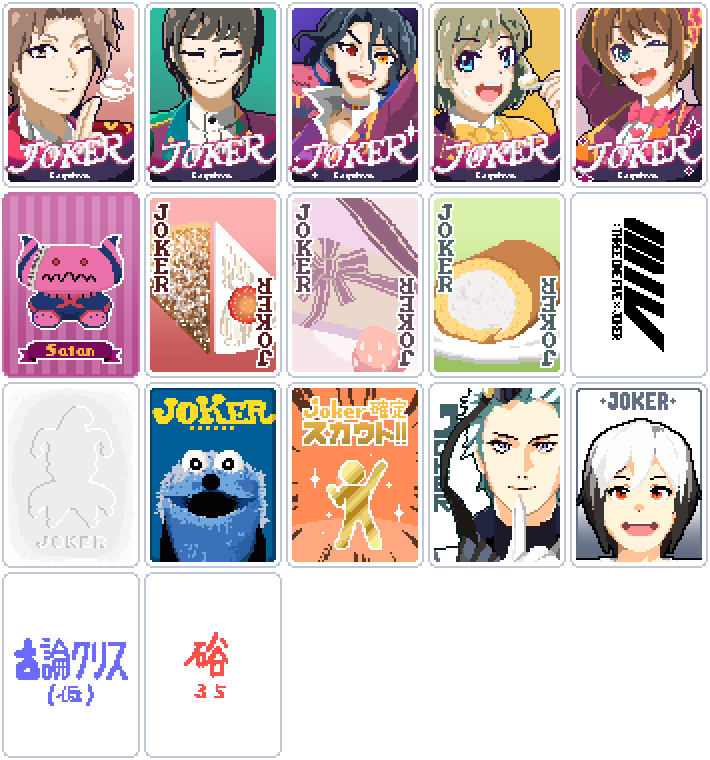
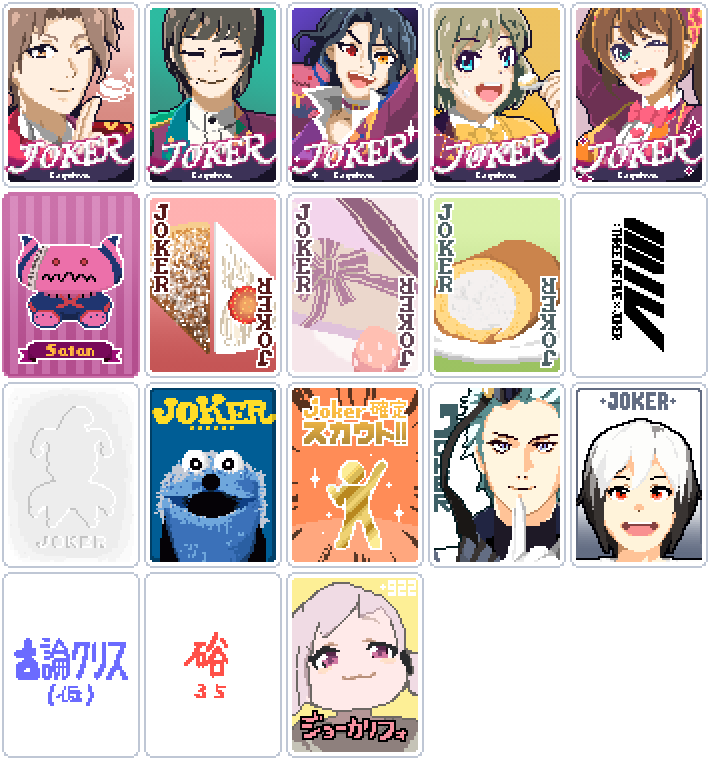
Add California Gurls with per-hand chips and round-end departure

Changed region(s): [[0.4028, 0.7566, 0.5887, 0.9987]]

diff --git a/tests/release.py b/tests/release.py
@@ -26,7 +26,7 @@ with tempfile.TemporaryDirectory(prefix='cafetro-release-') as directory:
     with ZipFile(archive) as package:
         assert package.testzip() is None
         paths = package.namelist()
-        assert len(paths) == len(set(paths)) == 48 + len(optional)
+        assert len(paths) == len(set(paths)) == 49 + len(optional)
         assert all(path.startswith('Cafetro/') and '..' not in Path(path).parts for path in paths)
         assert not any(part in {'art', 'docs', 'tests', 'tools', 'previews', '__pycache__'}
                        for path in paths for part in Path(path).parts)
@@ -68,7 +68,7 @@ with tempfile.TemporaryDirectory(prefix='cafetro-release-') as directory:
         assert(registered.challenges.finale:unlocked() == false)
     ''')
     definitions = lua.globals().registered
-    assert len(list(definitions.jokers.items())) == 17
+    assert len(list(definitions.jokers.items())) == 18
     assert len(list(definitions.drawsteps.items())) == 1
     assert definitions.seals.chun_chun.atlas == "chun_chun"
     assert len(list(definitions.challenges.items())) == 8

diff --git a/tests/run.py b/tests/run.py
@@ -36,7 +36,7 @@ assert metadata['name'] == 'Cafetro!'
 assert metadata['id'] == 'CafeParade' and metadata['prefix'] == 'cp'
 assert (ROOT / metadata['main_file']).is_file()
 palette = json.loads((PROJECT / 'art/COLOR_PALETTE.json').read_text(encoding='utf-8'))
-assert len(palette['jokers']) == 17
+assert len(palette['jokers']) == 18
 columns = palette['atlas_columns']
 assert columns == 5
 for index, spec in enumerate(palette['jokers']):

diff --git a/docs/TEST_PLAN.md b/docs/TEST_PLAN.md
@@ -5,12 +5,12 @@
 ## 自動検証
 
 - 全ランタイム・fixture・テストのLua 5.1構文。
-- 726件: ジョーカー17種の登録・能力・コピー・再発動・成長演出・状態復元・サタンの枠・日英説明。開発用のお試しライブが通常登録されないことも確認。
+- 741件: ジョーカー18種の登録・能力・コピー・再発動・成長演出・状態復元・サタンの枠・日英説明。開発用のお試しライブが通常登録されないことも確認。
 - 咲の左端が得点対象外・得点対象が空／未提供なら変化・演出・回数消費なし。同じブラインドの次の有効なハンドで発動でき、得点対象の配列順が変わってもプレイした左端を選ぶことを確認。
 - 神谷の同一ブラインド内4ハンド連続報酬、重複評価・コピー・旧セーブ移行、失敗したタロット抽選・満杯・可変確率を確認。サタンの0〜5人時のX2.5〜X3.75、人数減少後と旧成長値の保持、赤枠と末尾の現在値を日英で確認。
 - エンボスの全標準強化・シール／エディションのみの除外・再発動・コピー、スンスンの6限定・得点対象との一致・ストーン除外・コピー・非得点領域の除外、日英の最終行の非公式表記を確認。
 - 168件: ケーキセットのペアを含む上位役・カスタム役への対応、ペアのない役の除外、標準4ボスのスート制限だけの解除と復帰、他の無効化原因との共存。
-- 272件: フード2種の1/5・1/10抽選、ラウンド終了時の本体限定・個体別・重複評価防止、勝利／敗北・コピー・再発動・デバフ・旧セーブ・破壊防止、日英の確率表示と隠し効果の非表示。両種・複数所持で巻緒の重みが1.25倍に留まり、売却／消滅／デバフで解除。旧式の抽選を独立RNG格子で厳密比較し、get_weight・禁止・他プール・金人間との併用も確認。
+- 303件: California Gurlsの提出時と終了時の独立した1/4抽選、結果を使った+922、コピーと日英の「ｶﾘﾌｫ」を確認。フード2種の1/5・1/10抽選、ラウンド終了時の本体限定・個体別・重複評価防止、勝利／敗北・コピー・再発動・デバフ・旧セーブ・破壊防止、日英の確率表示と隠し効果の非表示。両種・複数所持で巻緒の重みが1.25倍に留まり、売却／消滅／デバフで解除。旧式の抽選を独立RNG格子で厳密比較し、get_weight・禁止・他プール・金人間との併用も確認。
 - 422件: 金人間の標準道化師パック4種限定・MODパック／ショップ除外、所持・売却・デバフ・複数所持、5:1の重み再正規化、重み補正・追加レアリティ・object_weights、禁止・重複・Showman・プールの使い回し、候補枯渇時の非コモン補充と失敗時の禁止状態復元を確認。
 - 172件: 雨彦の自身・ジョーカー・消耗品・MODトランプを含む集計、領域の重複除外、売却／消費／除去・デバフ・未所持除外、固定ネガティブ・コピー・加工変更・枠の二重加算防止、日英の現在倍率。固定前景の描画順・キャッシュ・Glued・無加工・浮遊なし・二重描画防止をモックで確認。確認用お題の8枚デッキ、非ブロックの初期加工、初期5枚・X2.25、消費→破壊→売却でX1.25へ戻る遷移、初期化の重複／別ランへの漏れ防止も確認。
 - 140件: Chocolate Spacialの生成条件・容量・予約枠・複数所持とコピー。
@@ -20,15 +20,15 @@
 - スキン4スート・2配色、画像全52セル。統合元のトランプ4枚をSHA-256で照合。
 - Chun-Chunの得点後付与、未プレイ判定、Blueprint経由の上限共有、セーブ状態の再構築、コピー時の除去、売却後の得点、ラウンド終了の除去、雨彦の重複除外、JokerDisplayの表示値とチャレンジの初期構成。
 - nearest/lanczos、1x/2xのアトラス全画素・透明度・サタン前景・雨彦前景・MODアイコン。配布する追跡済み画像とnearest再生成結果も一致。
-- 配布ZIPの48ファイル、CRC、原稿・テスト・資料・仮プレビューの除外、SHA-256、再現可能なZIP内容、必要ファイル欠落時の失敗。
-- **展開した配布ZIPだけ**を読み、ジョーカー17種・お題8種・シール1種・固定前景のDrawStep・スキン4種と全アトラスを登録。内部IDを保持し、追加の開発ファイルに依存しないことを確認。
+- 配布ZIPの49ファイル、CRC、原稿・テスト・資料・仮プレビューの除外、SHA-256、再現可能なZIP内容、必要ファイル欠落時の失敗。
+- **展開した配布ZIPだけ**を読み、ジョーカー18種・お題8種・シール1種・固定前景のDrawStep・スキン4種と全アトラスを登録。内部IDを保持し、追加の開発ファイルに依存しないことを確認。
 - 作者のREADME.txtが必ず同梱され、旧SAKI_CARDS_NOTICE.txtが入らないことを確認。追加のMarkdown READMEも同梱できる。
 
-既存のテストは2,301件のアサーションを実行し、Chun-Chunも専用テストで検証します。モックはゲームの描画・セーブ形式・Steamoddedディスパッチ全体を再現しません。ZIPの読み込み確認も、実ゲーム起動の代用ではありません。
+既存のテストは2,347件のアサーションを実行し、Chun-Chunも専用テストで検証します。モックはゲームの描画・セーブ形式・Steamoddedディスパッチ全体を再現しません。ZIPの読み込み確認も、実ゲーム起動の代用ではありません。
 
 ## ユーザー側での実ゲーム確認
 
-1. 旧版と二重導入せず、`Cafetro` フォルダで起動。表示名Cafetro!、新アイコン、ジョーカー17枚、日英の説明・作者表記を確認。
+1. 旧版と二重導入せず、`Cafetro` フォルダで起動。表示名Cafetro!、新アイコン、ジョーカー18枚、日英の説明・作者表記を確認。
 2. 通常ランと既存セーブを確認。内部ID・prefix・カードキーは維持しているが、実際の保存形式との互換はこの環境では未確認。
 3. 咲の左端・未強化・得点対象限定Makeup!→ワイルド→得点、東雲の得点後成長、ケーキセットのスート制限解除、生成・再発動・サタンの枠を確認。
    ケーキセットをツーペア・フルハウス等で使用し、他原因の無効化は残ることを確認。ロールケーキの各+50、ラウンド終了時の「食べられた！」、確率表示の変更、対応MODでのFood判定も確認。

diff --git a/docs/CARD_SPEC.md b/docs/CARD_SPEC.md
@@ -3,7 +3,7 @@
 現行の数値は `Cafetro/config.lua` に集約する。v1.1.0では依頼に基づき神谷とサタンを上方調整。比較資料と判断理由は `BALANCE_NOTES.md` を参照。
 
 ## 共通定義
-- 追加するカードは `kamiya` / `shinonome` / `aslan` / `makio` / `saki` / `satan` / `cake_set` / `chocolate_spacial` / `plain_cakeroll` / `three_one_five` / `embossing` / `sunsun` / `goldpeople` / `amehiko` / `sora` / `koron` / `hazama` の17種。表示名 `Cafetro!`、内部MOD ID `CafeParade`。内部IDの完全形はSteamoddedのprefix規則に従って衝突しないものにする。
+- 追加するカードは `kamiya` / `shinonome` / `aslan` / `makio` / `saki` / `satan` / `cake_set` / `chocolate_spacial` / `plain_cakeroll` / `three_one_five` / `embossing` / `sunsun` / `goldpeople` / `amehiko` / `sora` / `koron` / `hazama` / `california_gurls` の18種。表示名 `Cafetro!`、内部MOD ID `CafeParade`。内部IDの完全形はSteamoddedのprefix規則に従って衝突しないものにする。
 - 「Café Paradeメンバー」は **神谷・東雲・アスラン・巻緒・咲の5種のみ**。サタンは6枚目だがメンバー数には数えない。異なるメンバーを数えるときは種類ごとに最大1、同名2枚を所持しても1人。
 - 「所持している」はジョーカー領域に存在する有効（非debuff）のカードを意味する。Blueprint / Brainstormによる能力コピーは所持人数を増やさない。デッキにカードがあってもジョーカー領域になければ対象外。
 - 「得点したカード」はスコア計算に参加したカード。捨て札、得点に不参加の手札、手札に残るスチールカード等は対象外。

diff --git a/docs/RELEASING.md b/docs/RELEASING.md
@@ -15,7 +15,7 @@
 3. 画像を更新したときだけ `python tools/build_atlas.py --filter nearest` を実行する。
 4. `python tests/run.py` で能力・画像・配布ZIPを検証する。
 5. `python tools/build_release.py` を実行する。`dist/Cafetro-v1.2.0.zip` と `dist/Cafetro-v1.2.0.sha256` を生成する。バージョン部分はメタデータに従う。
-6. ZIPの最上位は `Cafetro/` ひとつで、その直下に `Cafetro.json` と `main.lua` がある。現在はREADME.txtと確認用チャレンジ2種を含む48ファイル。
+6. ZIPの最上位は `Cafetro/` ひとつで、その直下に `Cafetro.json` と `main.lua` がある。現在はREADME.txtと確認用チャレンジ2種を含む49ファイル。
 7. GitHub Releaseの下書きにZIPとSHA-256を添付する。READMEを追加・変更したら再ビルドし、両方の添付を更新する。
 8. 実ゲーム確認・README・リリース説明の準備ができたら下書きを公開する。
 

diff --git a/docs/CHANGELOG.md b/docs/CHANGELOG.md
@@ -4,6 +4,7 @@
 
 正式版v1.0.0以降の変更を蓄積する欄です。次の正式バージョン番号は、リリース指示時に確定します。現時点ではv1.1.0・v1.2.0の候補下書きに含まれています。
 
+- California Gurls（コモン・$4）を追加。ハンド提出時に1/4でチップ+922、ラウンド終了時に別の1/4で退去。日英の本文末尾に小さく「ｶﾘﾌｫ」を表示。
 - 北村想楽・古論クリス・葛之葉雨彦にユニットカラー `#6880A0` のLegendersカテゴリを表示。
 - 硲道夫（レア・$8）を仮画像で追加。プレイした1〜5枚のランク合計が35なら倍率×2。
 - 古論クリス（アンコモン・$6）を仮画像で追加。シール付きカードが得点するたびにチップ+35。

diff --git a/docs/ASSET_GUIDE.md b/docs/ASSET_GUIDE.md
@@ -17,7 +17,7 @@ python tools/build_atlas.py --filter lanczos
 
 ## 5列のアトラス
 
-カード数に応じて段数を増やします。現在は17枚・5列×4段で、1xが355×380、2xが710×760。1セルは71×95／142×190です。
+カード数に応じて段数を増やします。現在は18枚・5列×4段で、1xが355×380、2xが710×760。1セルは71×95／142×190です。
 
 |ID|x|y|
 |---|---:|---:|
@@ -38,6 +38,7 @@ python tools/build_atlas.py --filter lanczos
 |sora|4|2|
 |koron|0|3|
 |hazama|1|3|
+|california_gurls|2|3|
 
 画像の順序・列数は `art/COLOR_PALETTE.json`、ゲームでの登録は `Cafetro/main.lua` にあります。追加時は両方をそろえ、テストで全座標と全画素を確認します。
 

diff --git a/docs/DEVELOPMENT.md b/docs/DEVELOPMENT.md
@@ -4,7 +4,7 @@
 
 ## 構成
 
-- `Cafetro/`: 配布するMOD本体。ジョーカー17種、Chun-Chunシール、ソロお題5種＋最終お題＋動作確認用お題2種、水嶋咲のトランプスキン。
+- `Cafetro/`: 配布するMOD本体。ジョーカー18種、Chun-Chunシール、ソロお題5種＋最終お題＋動作確認用お題2種、水嶋咲のトランプスキン。
 - `art/source/`: ジョーカーとアイコンの原稿。`art/COLOR_PALETTE.json` に画像の順序・座標を記載。
 - `tools/`: アトラス生成とリリースZIP作成。
 - `tests/`: Lua 5.1の能力検証、画像・配布パッケージ検証。`fixtures/practice.lua` は旧お試しライブの検証データ。
